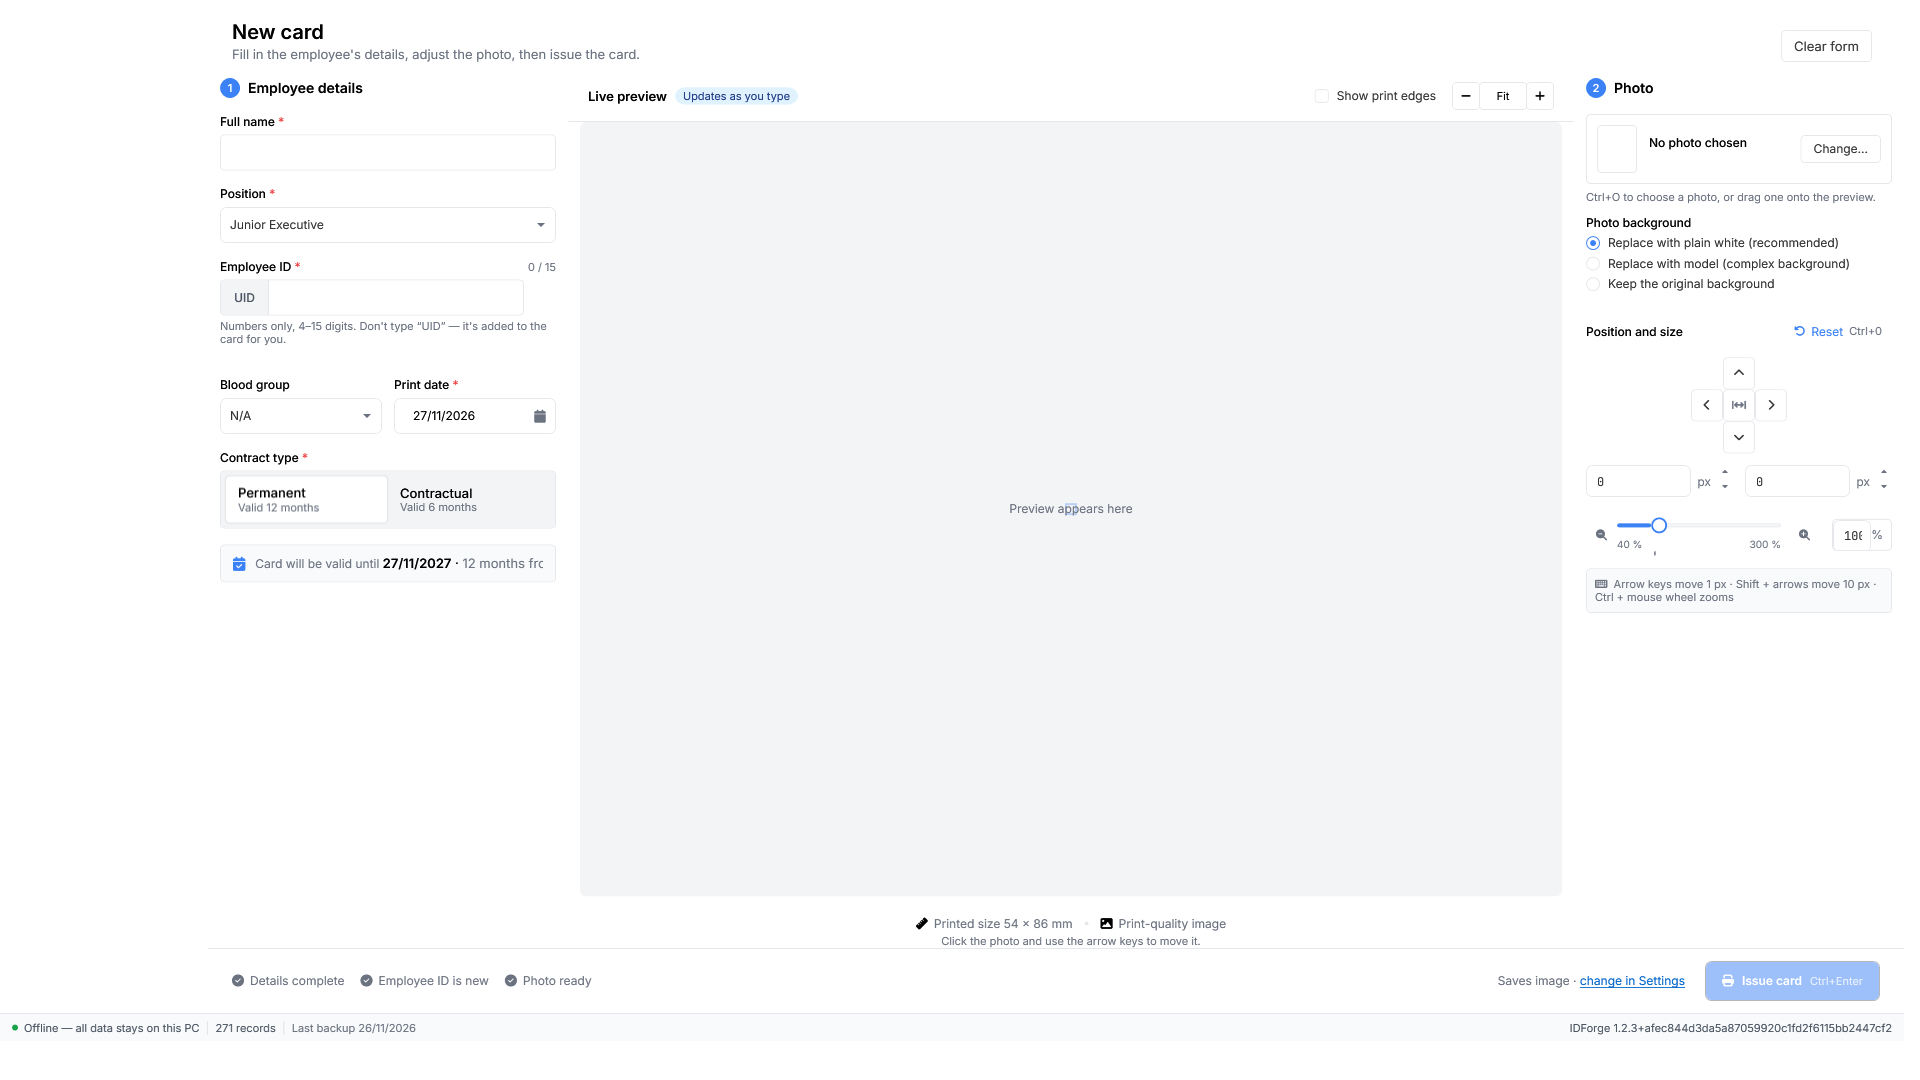
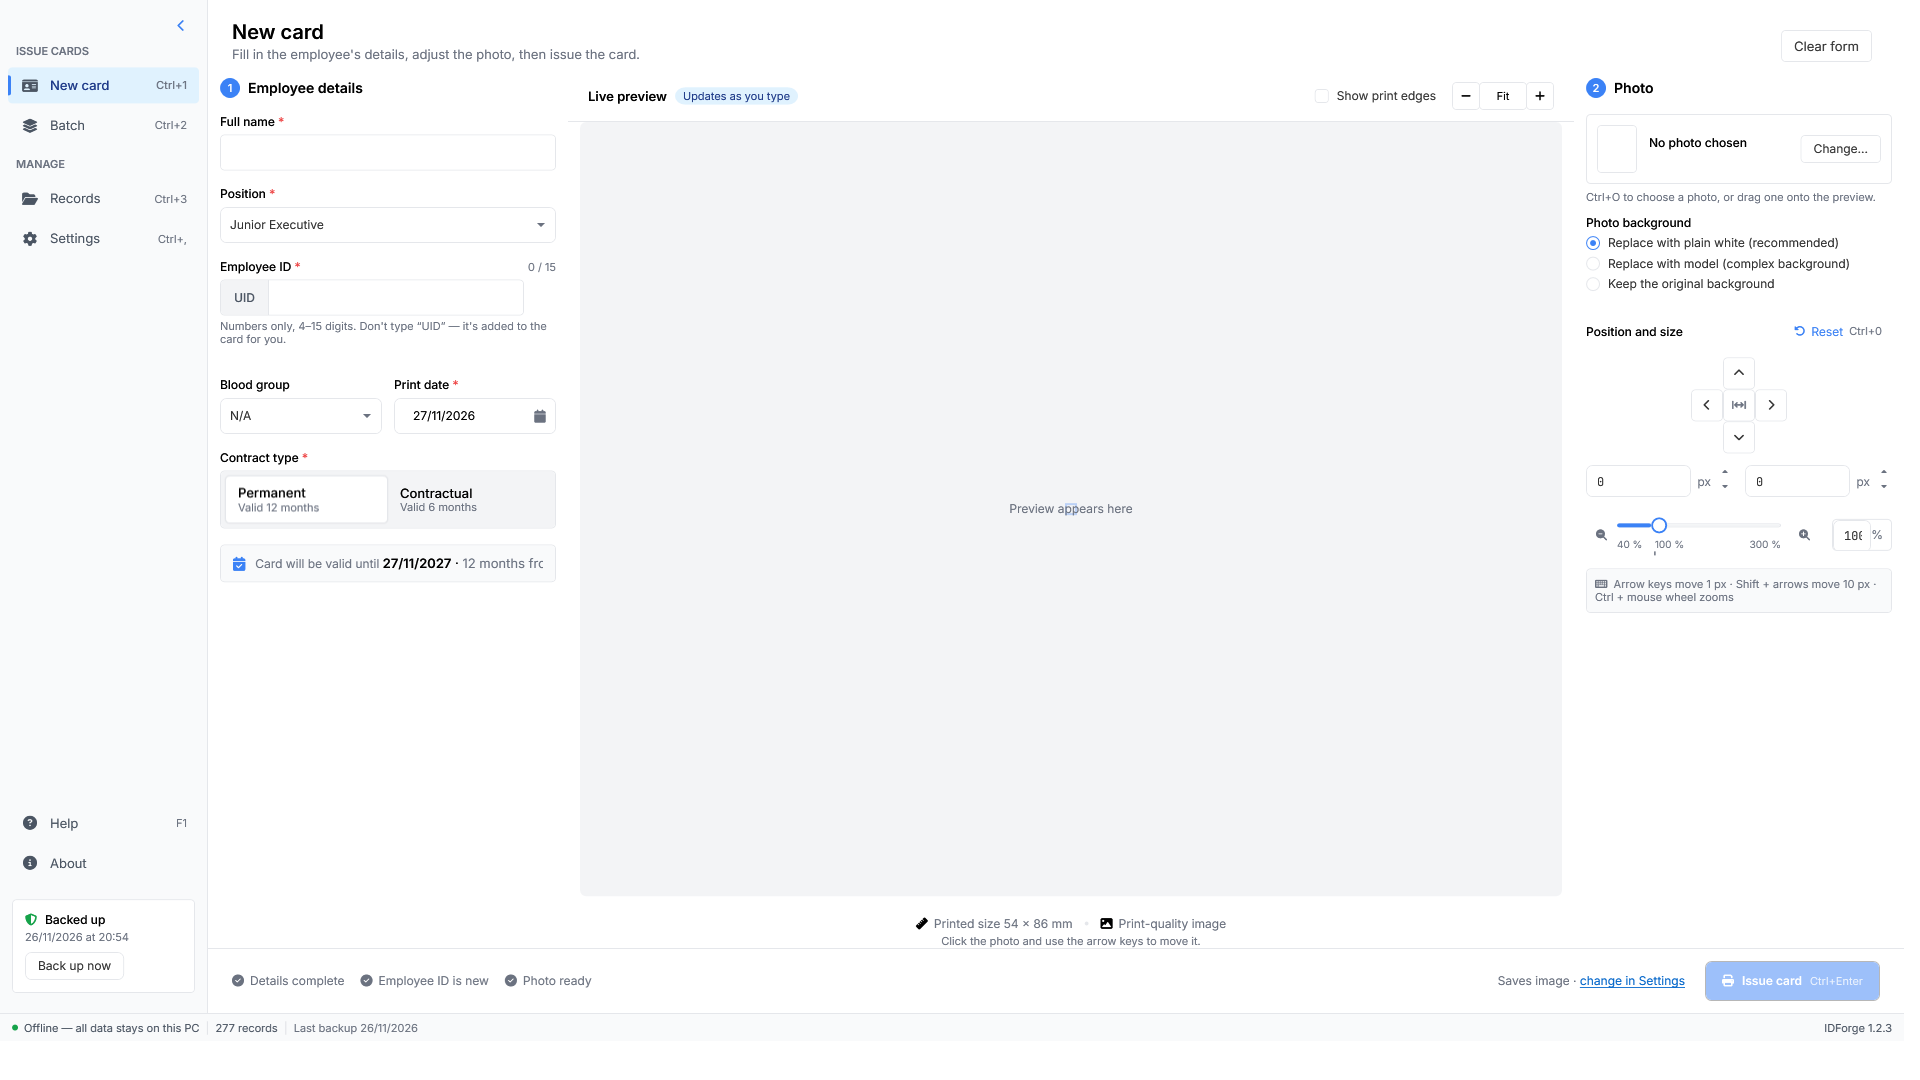
fix(nav): stop zero-width column from clipping the rail to 0 px
NavCol sat in a Grid column of Width=0 with an explicit Width=208/56.
WPF's layout clip follows the arrange slot, so the rail was clipped to
0 px at runtime — elements existed (UIA saw them at correct rects) but
nothing painted, leaving the blank left strip in the owner's build.
Both NavCol and PagesHost now share the single Grid cell; the rail
floats above pages via Panel.ZIndex and PagesHost.Margin keeps the
inset. Nav_Rail_Visible_On_Live_Startup_Path now also asserts the
layout clip is absent or >=56 px so this regression cannot pass on
ActualWidth/IsVisible alone.

Generated with [Devin](https://devin.ai)

diff --git a/src/IDForge/MainWindow.xaml b/src/IDForge/MainWindow.xaml
@@ -205,16 +205,14 @@
         </Grid.RowDefinitions>
 
         <Grid Grid.Row="0">
-            <Grid.ColumnDefinitions>
-                <ColumnDefinition Width="0"/>
-                <ColumnDefinition Width="*"/>
-            </Grid.ColumnDefinitions>
+            <!-- Both children share the single cell: NavCol floats over
+                 PagesHost (Panel.ZIndex) instead of sitting in a column.
+                 A zero-width column used to clip NavCol to 0 px — WPF's
+                 layout clip follows the arrange slot, not the explicit
+                 Width — which is why the rail rendered empty. -->
 
             <!-- ============ LEFT NAV ============ -->
-            <!-- Zero-width column + explicit Width: the rail floats over the
-                 pages (overlay) instead of pushing them when expanded at a
-                 narrow window width. -->
-            <Border x:Name="NavCol" Grid.Column="0" Width="208" Panel.ZIndex="5"
+            <Border x:Name="NavCol" Width="208" Panel.ZIndex="5"
                     HorizontalAlignment="Left"
                     Background="{StaticResource SidebarBrush}"
                     BorderBrush="{StaticResource BorderBrush}" BorderThickness="0,0,1,0">
@@ -386,7 +384,7 @@
             </Border>
 
             <!-- ============ PAGES ============ -->
-            <Grid x:Name="PagesHost" Grid.Column="1">
+            <Grid x:Name="PagesHost">
 
                 <!-- ===== NEW CARD ===== -->
                 <Grid x:Name="PageNewCard">

diff --git a/tests/IDForge.Tests/NewCardParityTests.cs b/tests/IDForge.Tests/NewCardParityTests.cs
@@ -2,6 +2,7 @@ using System.IO;
 using System.Linq;
 using System.Windows;
 using System.Windows.Controls;
+using System.Windows.Controls.Primitives;
 using System.Windows.Media;
 using System.Windows.Media.Imaging;
 using System.Windows.Threading;
@@ -381,6 +382,18 @@ public class NewCardParityTests
                     $"rail rect {navRect} starts off-window");
                 Assert.True(navRect.Right <= win.ActualWidth + 0.5,
                     $"rail rect {navRect} extends past window {win.ActualWidth:F0}");
+
+                // Regression: WPF's layout clip follows the arrange slot, not
+                // the element's explicit Width. A zero-width Grid column used
+                // to clip the rail to 0 px while ActualWidth/IsVisible still
+                // reported 208/true — so assert the clip itself is absent or
+                // wide enough for the rail.
+                var clip = LayoutInformation.GetLayoutClip(nav);
+                if (clip is RectangleGeometry clipRect)
+                {
+                    Assert.True(clipRect.Rect.Width >= 56 - 0.5,
+                        $"layout clip {clipRect.Rect} squeezes rail below 56 px");
+                }
 
                 var pagesRect = BoundsIn(pages, win);
                 // Pages must not slide under the rail: page left edge is at or
